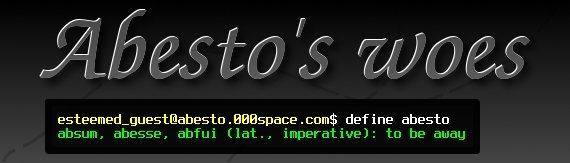
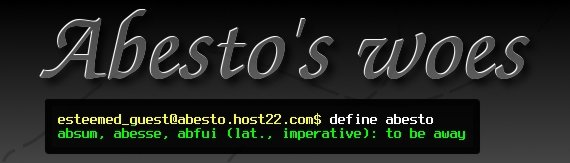
Tweaks

Changed region(s): [[0.4175, 0.6748, 0.8053, 0.7669]]

diff --git a/ci/application/views/skeleton.php b/ci/application/views/skeleton.php
@@ -1,4 +1,5 @@
-<?xml version="1.1" encoding="utf-8" ?>
+<?php ob_start(); ?>
+<?php echo '<?xml version="1.1" encoding="utf-8" ?>' . "\n" ?>
 <!DOCTYPE html PUBLIC "-//W3C//DTD XHTML 1.1//EN" "http://www.w3.org/TR/xhtml11/DTD/xhtml11.dtd">
 <html xmlns="http://www.w3.org/1999/xhtml" xml:lang="hu">
   <head>
@@ -29,6 +30,7 @@
       </ul>
     </div>
   </div>
+<?php ob_end_flush(); ob_start(); ?>
   <div id="main">
     <div id="contact">
       Contact: abesto0.at.gmail.com
@@ -59,9 +61,14 @@
              src="http://i.creativecommons.org/l/by-nc-sa/2.5/hu/88x31.png" />
       </a>
     </div>
+    <a href="http://feedvalidator.org/check.cgi?url=http%3A//abesto.host22.com/rss">
+      <img src="/img/valid-rss.png" alt="[Valid RSS]" title="Validate my RSS feed" />
+    </a>
   </div>
   <div id="license">
-    This work is licensed under a <a rel="license" href="http://creativecommons.org/licenses/by-nc-sa/2.5/hu/">Creative Commons Attribution-Noncommercial-Share Alike 2.5 Hungary License</a>.
+    This work is licensed under a <a rel="license" href="http://creativecommons.org/licenses/by-nc-sa/2.5/hu/">Creative Commons Attribution-Noncommercial-Share Alike 2.5 Hungary License</a>.<br />
+    Page generated in <?php echo microtime() - $time; ?> seconds
   </div>
 </body>
 </html>
+<?php ob_end_flush(); ?>

diff --git a/ci/application/views/about.php b/ci/application/views/about.php
@@ -14,6 +14,10 @@
   techno and all the similar stuff I don't know the proper name of.
 </p>
 <p>
+  This site is <em>about</em> computing, so the rest of this <em>About</em> will
+  be <em>about</em> that as well.
+</p>
+<p>
   The above-mentioned Internet connection was followed shortly by a switch to
   Ubuntu, and lately to Arch Linux. That was a really defining experience - if
   nothing else, it defined my working environment (yeah, that was a joke. I'm not

diff --git a/ci/application/views/blog/post_long.php b/ci/application/views/blog/post_long.php
@@ -15,7 +15,7 @@ if ($more == true): ?>
 <div class="box comment">
   <span class="author"> <?php echo empty($comment['url']) ? $comment['name'] : anchor($comment['url'], $comment['name']); ?> </span>
   <p><?php echo $comment['text']; ?></p>
-  <div class="date"><?php echo $comment['time'];?></div>
+  <div class="date"><?php echo $comment['time'];?> -0700</div>
 </div>
 <?php endforeach; ?>
 <div id="post-comment">

diff --git a/ci/application/controllers/BaseController.php b/ci/application/controllers/BaseController.php
@@ -11,11 +11,12 @@ class BaseController extends Controller
 {
   public function __construct()
   {
+    $time = microtime();  
     parent::__construct();
-    $this->slots = array();
+    $this->slots = array('time' => $time);
   }
 
-  public function render($return=false)
+  protected function render($return=false)
   {
     $this->load->helper('html');
     $this->load->helper('url');

diff --git a/ci/application/views/blog/rss.php b/ci/application/views/blog/rss.php
@@ -1,5 +1,5 @@
 <?php
-echo '<?xml version="1.0" encoding="utf-8"\?\>' . "\n";
+echo '<?xml version="1.0" encoding="utf-8" ?>' . "\n";
 ?>
 <rss version="2.0"
      xmlns:dc="http://purl.org/dc/elements/1.1/"
@@ -37,3 +37,4 @@ echo '<?xml version="1.0" encoding="utf-8"\?\>' . "\n";
 <?php endforeach; ?>
   </channel>
 </rss>
+<!--</body>-->

diff --git a/ci/application/config/config.php b/ci/application/config/config.php
@@ -11,7 +11,7 @@
 |	http://example.com/
 |
 */
-$config['base_url']	= "http://abesto.000space.com/";
+$config['base_url']	= "http://abesto.host22.com/";
 
 /*
 |--------------------------------------------------------------------------
